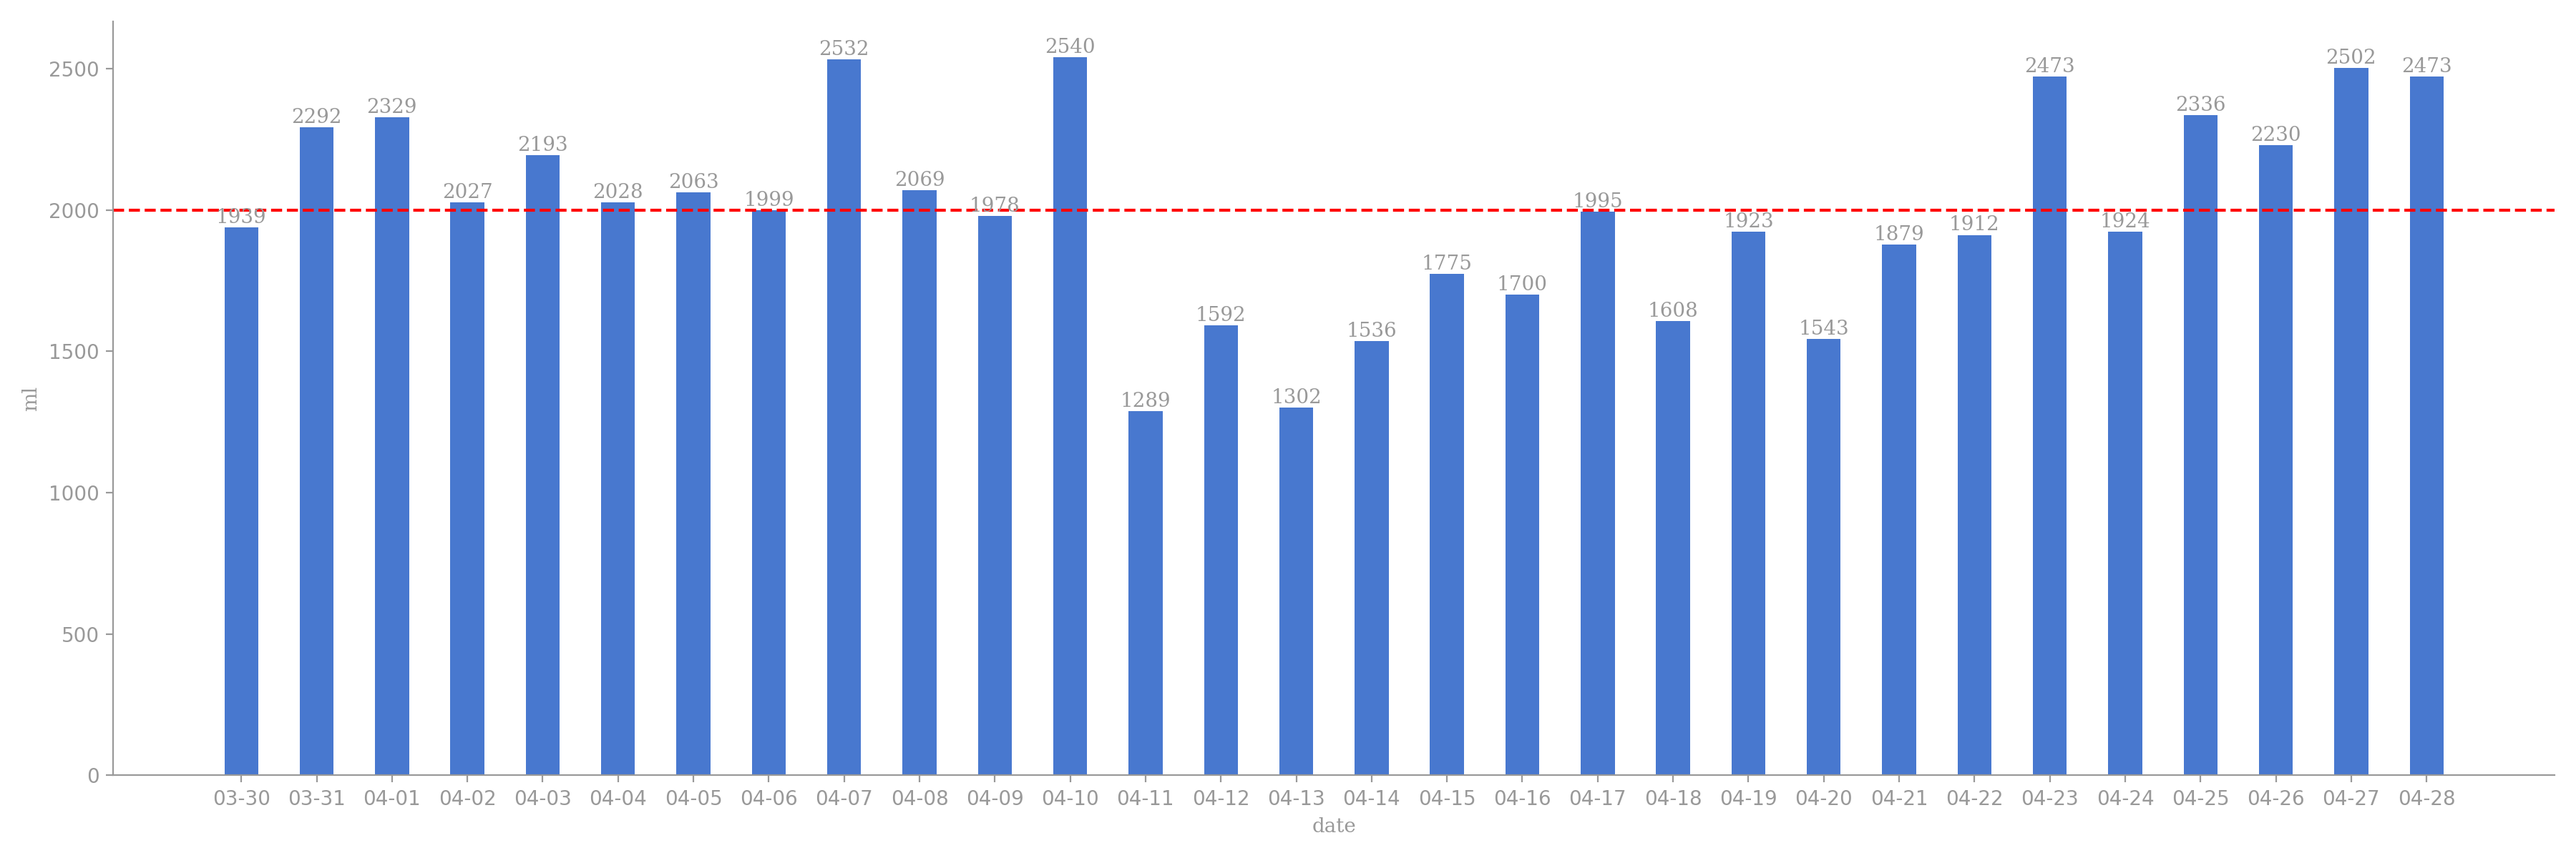
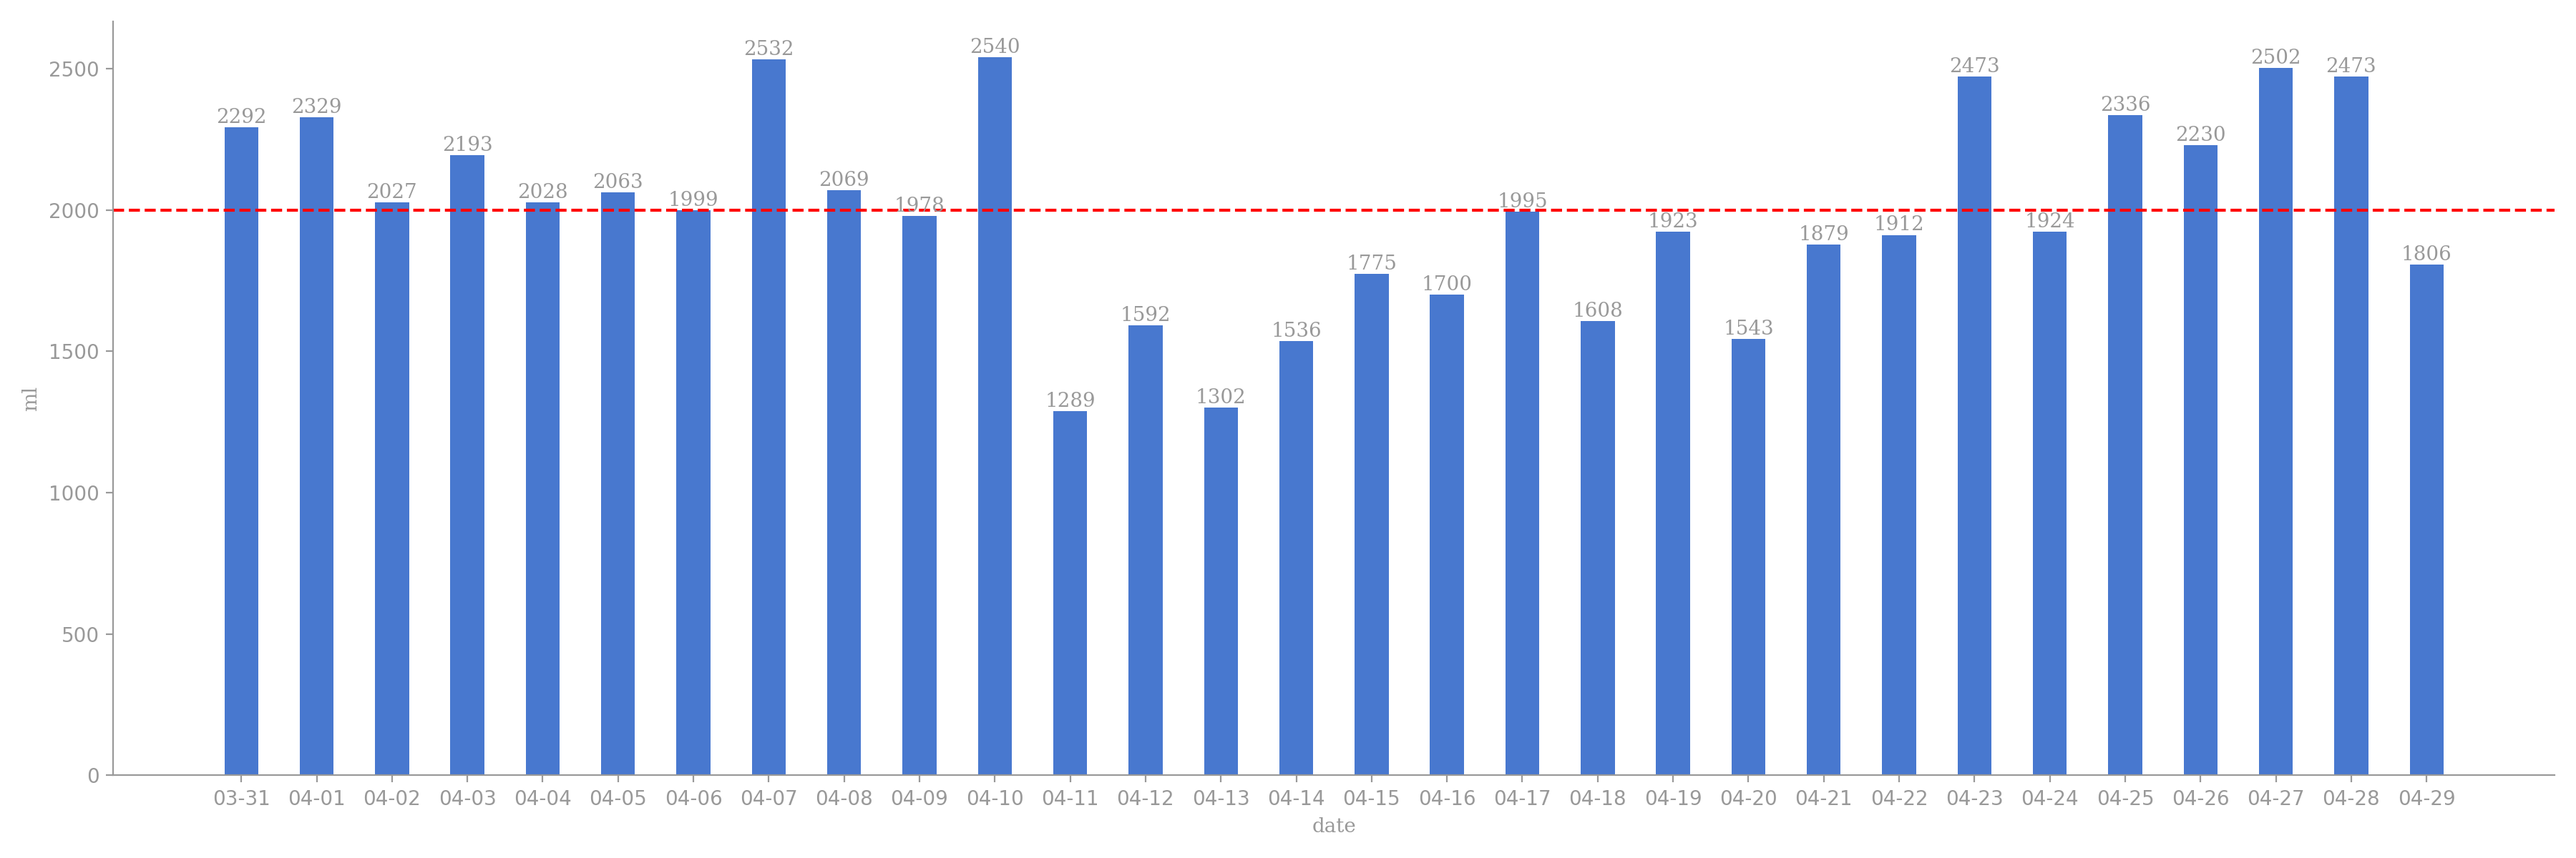
crontab auto git

Changed region(s): [[0.0622, 0.0308, 0.9644, 0.4933]]

diff --git a/README.md b/README.md
@@ -1,17 +1,3 @@
-# 今日饮水数据
-
-<div align=center>
-<img src="today.png" style="zoom: 100%;" />
-
-| 今日总饮水量 | 每小时平均饮水量 |
-| :----: | :----: |
-| 1806 | 129 |
-</div>
-
-| 日期 | 00:19:57 | 00:46:40 | 01:01:45 | 02:05:27 | 02:35:24 | 02:41:15 | 03:02:57 | 03:10:50 | 04:17:47 | 04:43:17 | 05:43:53 | 06:22:08 | 07:52:49 | 16:22:17 | 18:21:35 | 19:30:21 | 20:54:13 | 21:28:00 | 21:52:50 | 22:19:46 |
-| :----: | :----: | :----: | :----: | :----: | :----: | :----: | :----: | :----: | :----: | :----: | :----: | :----: | :----: | :----: | :----: | :----: | :----: | :----: | :----: | :----: |
-| 2026-04-29 | 102 | 86 | 62 | 122 | 56 | 84 | 51 | 102 | 63 | 86 | 86 | 102 | 86 | 72 | 300 | 64 | 32 | 113 | 56 | 81 |
-
 # 近30日饮水数据
 
 <div align=center>
@@ -19,8 +5,12 @@
 
 | 总饮水量 | 日均饮水量 |
 | :----: | :----: |
-| 59981 | 1999 |
+| 59848 | 1994 |
 </div>
+
+| 日期 | all | 00:19:57 | 00:46:40 | 01:01:45 | 02:05:27 | 02:35:24 | 02:41:15 | 03:02:57 | 03:10:50 | 04:17:47 | 04:43:17 | 05:43:53 | 06:22:08 | 07:52:49 | 16:22:17 | 18:21:35 | 19:30:21 | 20:54:13 | 21:28:00 | 21:52:50 | 22:19:46 |
+| :----: | :----: | :----: | :----: | :----: | :----: | :----: | :----: | :----: | :----: | :----: | :----: | :----: | :----: | :----: | :----: | :----: | :----: | :----: | :----: | :----: | :----: |
+| 2026-04-29 | 1806 | 102 | 86 | 62 | 122 | 56 | 84 | 51 | 102 | 63 | 86 | 86 | 102 | 86 | 72 | 300 | 64 | 32 | 113 | 56 | 81 |
 
 | 日期 | all | 00:57:49 | 01:26:09 | 01:42:50 | 02:15:43 | 02:40:11 | 03:05:59 | 03:31:02 | 04:03:45 | 04:52:11 | 06:56:28 | 07:23:36 | 08:10:49 | 08:41:08 | 10:20:17 | 17:30:33 | 18:00:31 | 18:27:06 | 18:49:34 | 19:19:28 | 20:16:48 | 20:27:55 | 21:14:51 | 21:38:36 | 21:49:51 | 21:50:42 | 22:22:53 | 22:46:13 | 23:09:14 | 23:25:09 |
 | :----: | :----: | :----: | :----: | :----: | :----: | :----: | :----: | :----: | :----: | :----: | :----: | :----: | :----: | :----: | :----: | :----: | :----: | :----: | :----: | :----: | :----: | :----: | :----: | :----: | :----: | :----: | :----: | :----: | :----: | :----: |
@@ -141,8 +131,4 @@
 | 日期 | all | 00:39:53 | 01:19:57 | 01:58:04 | 02:35:06 | 02:45:52 | 03:45:33 | 04:14:53 | 04:51:01 | 05:16:11 | 05:35:15 | 05:56:44 | 07:46:50 | 08:33:25 | 16:13:57 | 16:57:15 | 18:19:30 | 19:46:17 | 20:38:38 | 20:57:22 | 21:24:04 | 22:07:27 | 23:26:43 | 23:51:35 |
 | :----: | :----: | :----: | :----: | :----: | :----: | :----: | :----: | :----: | :----: | :----: | :----: | :----: | :----: | :----: | :----: | :----: | :----: | :----: | :----: | :----: | :----: | :----: | :----: | :----: |
 | 2026-03-30 | 1939 | 89 | 84 | 91 | 103 | 33 | 78 | 102 | 89 | 79 | 89 | 94 | 67 | 86 | 88 | 82 | 100 | 88 | 89 | 67 | 79 | 104 | 76 | 82 |
-
-| 日期 | all | 00:35:03 | 01:33:42 | 01:50:17 | 02:20:47 | 02:42:19 | 03:14:26 | 04:01:34 | 05:12:34 | 05:42:13 | 06:14:24 | 06:44:26 | 07:31:59 | 07:59:37 | 08:12:58 | 13:25:32 | 15:59:44 | 17:13:36 | 18:53:43 | 19:43:36 | 21:26:56 | 21:42:55 | 22:37:43 | 23:07:12 | 23:08:57 | 23:38:38 |
-| :----: | :----: | :----: | :----: | :----: | :----: | :----: | :----: | :----: | :----: | :----: | :----: | :----: | :----: | :----: | :----: | :----: | :----: | :----: | :----: | :----: | :----: | :----: | :----: | :----: | :----: | :----: |
-| 2026-03-29 | 2693 | 88 | 92 | 113 | 86 | 92 | 88 | 110 | 89 | 400 | 76 | 102 | 101 | 10 | 87 | 73 | 62 | 136 | 67 | 98 | 387 | 88 | 59 | 11 | 116 | 62 |
 
